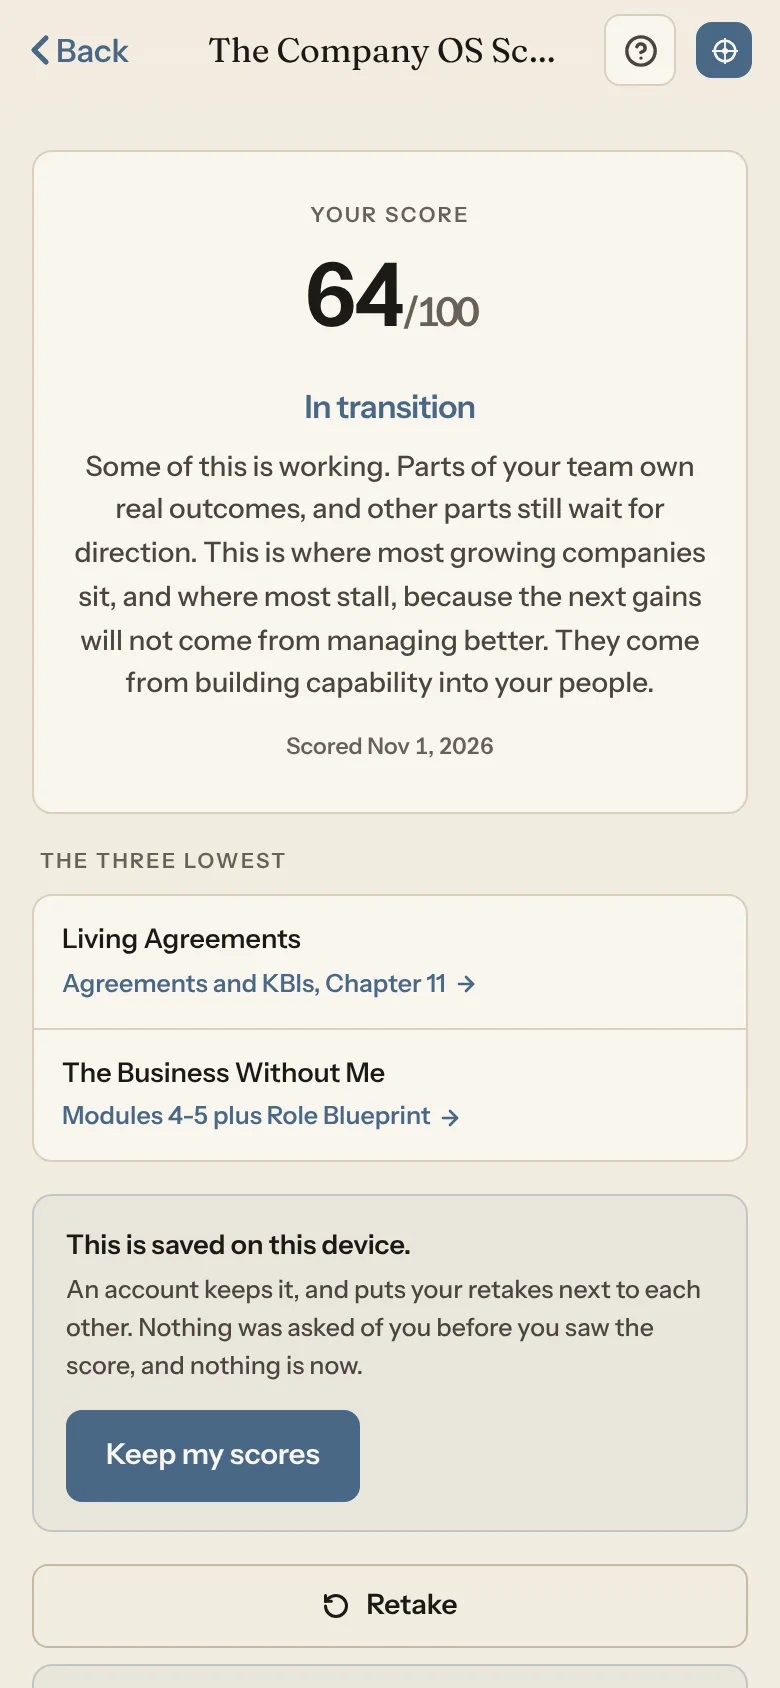
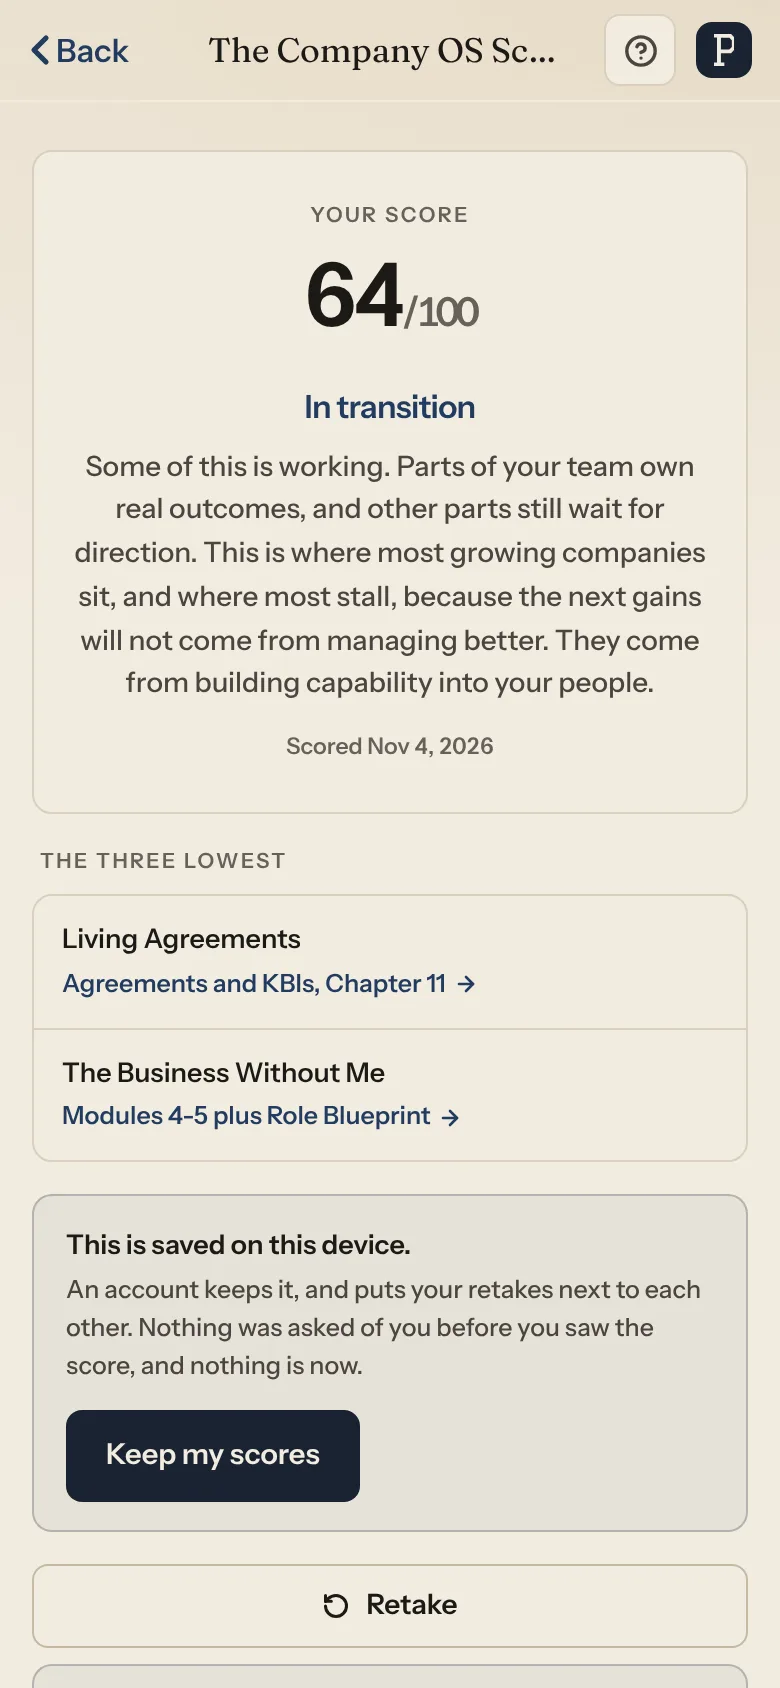
Show the app as it is today in every phone on the site
Logan, November 4: "make sure any of the screenshots ... of the app on the
website show the most recent version of the app." Recaptured from the live app
(390 x 844 at 2x, light, a weekday morning, as a visitor): Today, Set Up Your
Day, the Company OS Score scored, and the INQ journey. They carry the app's new
P mark and PRACTICE wordmark, its navy and gold, the Rep of the Day card and
daily habits. Today's alt text names what is on it now.

Claude-Session: https://claude.ai/code/session_016eeJ21GGDZmvVkMmqLCipo

diff --git a/README.md b/README.md
@@ -40,7 +40,8 @@ host, so a texted link shows it), and the P mark as favicon and home screen icon
 - `src/components/DualImage.astro`: an image with a dark mode version (the wordmark, the club lockup, the marks).
 - `src/components/AppPhone.astro`: a real screen of the app in a phone (the client, November 1: real screenshots,
   in a phone's shape, in place of the design's drawn app previews). Four screens, captured from the live app as a
-  visitor on a phone (390 x 844 at 2x, light theme, a weekday morning): Today on the home page, Set Up Your Day on
+  visitor on a phone (390 x 844 at 2x, light theme, a weekday morning; last taken November 4, after the app's new
+  logo, colours, Rep of the Day and daily habits): Today on the home page, Set Up Your Day on
   `/app`, a scored Company OS Score on `/ios`, and the INQ journey on `/inq` (in place of the design's drawn path, as
   its own note asks: "the INQ journey path from The Practice app"), beside the module list. They live in `public/images/practice/app/` (780 x 1688, plus a
   390 px variant); `scripts/capture.mjs` recaptures any route.
